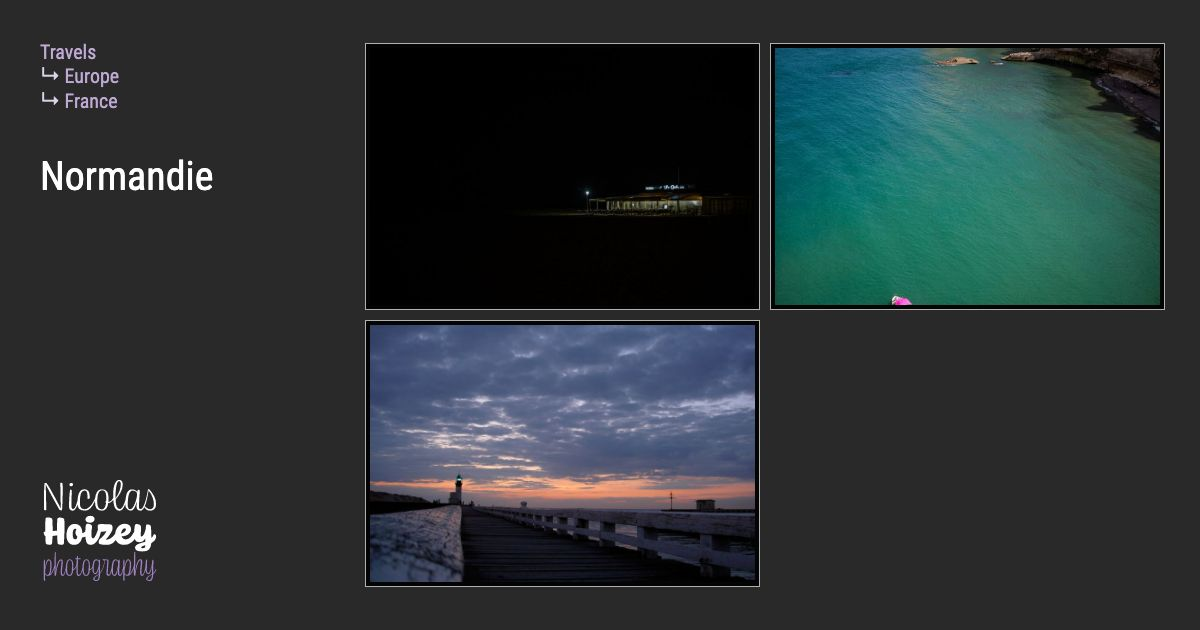
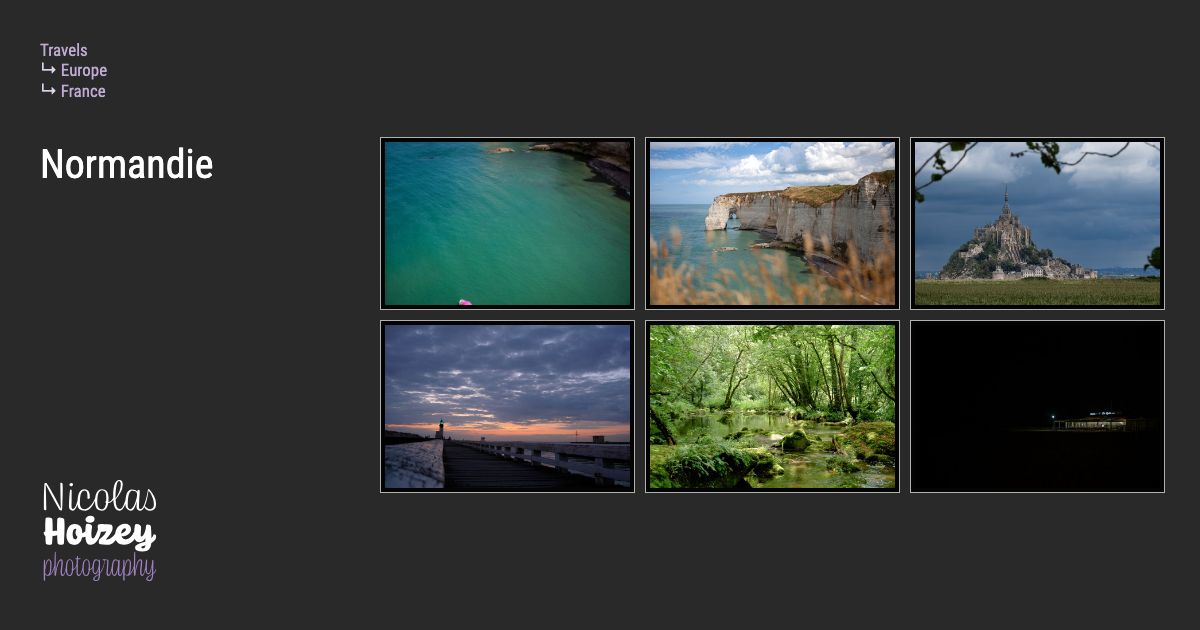
New photos

diff --git a/src/galleries/travels/europe/france/normandie/manche/index.md b/src/galleries/travels/europe/france/normandie/manche/index.md
@@ -1,0 +1,7 @@
+---
+title: Manche
+---
+
+> Manche […] is a coastal French département in [Normandy](../) on the English Channel, which is known as “La Manche”, literally “the sleeve”, in French.
+>
+> {% wikipedia "Manche", "https://en.wikipedia.org/wiki/Manche" %}

diff --git a/src/galleries/travels/europe/france/normandie/manche/mont-saint-michel-from-the-coast.md b/src/galleries/travels/europe/france/normandie/manche/mont-saint-michel-from-the-coast.md
@@ -1,0 +1,4 @@
+---
+date: 2024-05-03 12:51:29 +02:00
+featured: true
+---

diff --git a/src/galleries/travels/europe/france/normandie/seine-maritime/wood-pier-in-sunset.md b/src/galleries/travels/europe/france/normandie/seine-maritime/wood-pier-in-sunset.md
@@ -1,3 +1,4 @@
 ---
 date: 2021-07-15 12:17:53 +02:00
+featured: true
 ---

diff --git a/src/galleries/travels/europe/france/nouvelle-aquitaine/deux-sevres/fog-over-niort.md b/src/galleries/travels/europe/france/nouvelle-aquitaine/deux-sevres/fog-over-niort.md
@@ -1,3 +1,4 @@
 ---
 date: 2021-10-26 09:23:36 +02:00
+featured: true
 ---

diff --git a/src/galleries/urban/misc/weathered-windows.md b/src/galleries/urban/misc/weathered-windows.md
@@ -1,0 +1,3 @@
+---
+date: 2024-05-03 12:51:23 +02:00
+---
